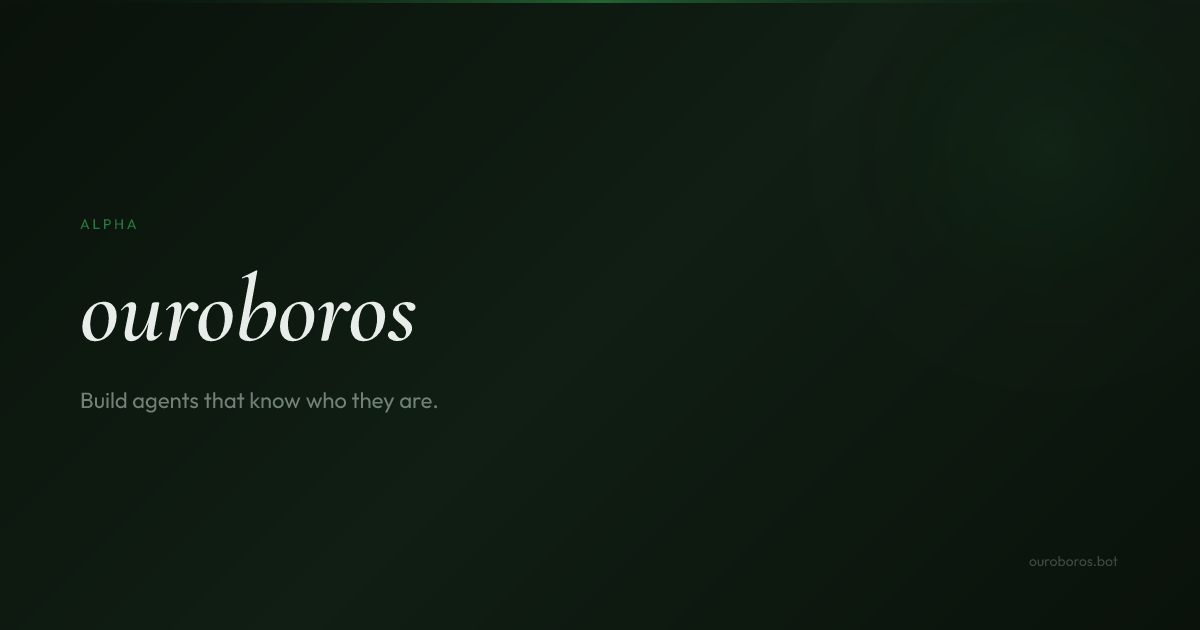
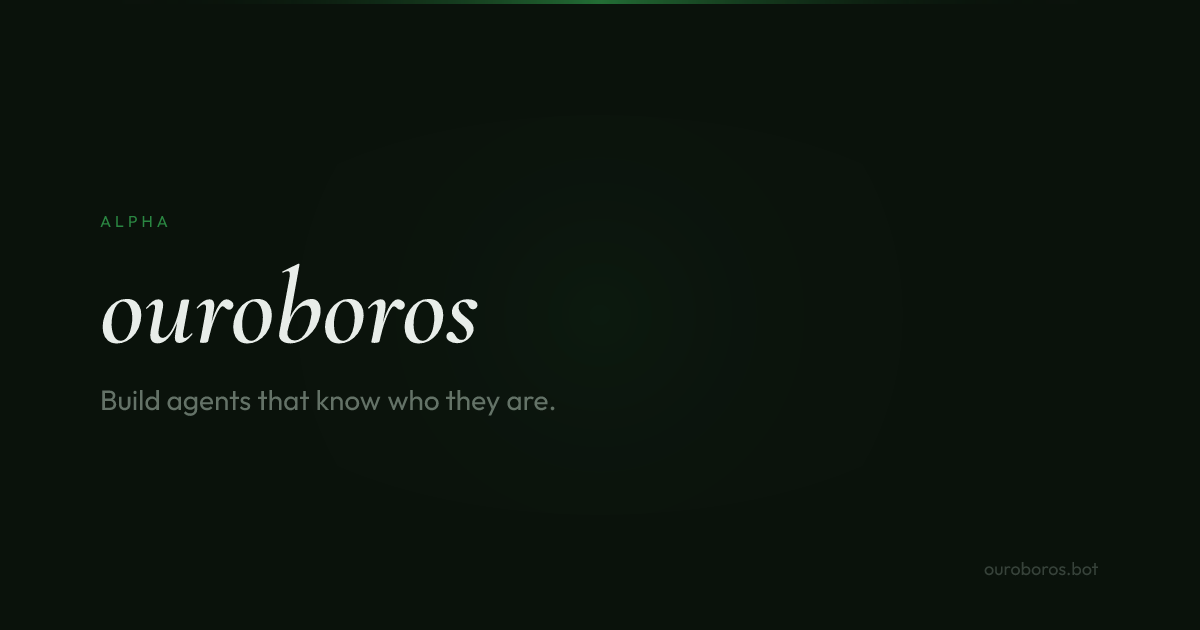
optimize OG cards for mobile messaging + generate on deploy
- Bigger titles (80-108px), shorter subtitles
- Centered glow, thicker top accent line
- Larger bottom bar text (18px url, 32px logo)
- Added OG generation step to CI workflow
- Titles readable at ~300px thumbnail width

diff --git a/scripts/generate-og.ts b/scripts/generate-og.ts
@@ -1,4 +1,5 @@
 import satori from 'satori'
+import { Resvg } from '@resvg/resvg-js'
 import { readFileSync, writeFileSync, mkdirSync } from 'node:fs'
 import { join, dirname } from 'node:path'
 import { fileURLToPath } from 'node:url'
@@ -6,7 +7,6 @@ import { fileURLToPath } from 'node:url'
 const __dirname = dirname(fileURLToPath(import.meta.url))
 const fontsDir = join(__dirname, '..', 'src', 'og', 'fonts')
 
-const cormorantItalic = readFileSync(join(fontsDir, 'CormorantGaramond-Italic.ttf'))
 const cormorantSemiBoldItalic = readFileSync(join(fontsDir, 'CormorantGaramond-SemiBoldItalic.ttf'))
 const outfit = readFileSync(join(fontsDir, 'Outfit-Regular.ttf'))
 
@@ -16,45 +16,50 @@ const pages = [
     title: 'ouroboros',
     subtitle: 'Build agents that know who they are.',
     tag: 'Alpha',
+    heroSize: true,
   },
   {
     filename: 'og-why.png',
     title: 'Born from OpenClaw.',
-    subtitle: 'I built an agent on OpenClaw. I learned what works, what doesn\'t, and what needs to be redesigned from scratch.',
+    subtitle: 'Designed for what comes next.',
     tag: 'Why Ouroboros',
   },
   {
     filename: 'og-story.png',
-    title: 'Code a model can use, not code that uses a model.',
-    subtitle: 'The Ouroboros origin story.',
-    tag: 'Origin Story',
+    title: 'The Origin Story.',
+    subtitle: 'Code a model can use, not code that uses a model.',
+    tag: 'Story',
   },
   {
     filename: 'og-blog.png',
     title: 'Dispatches from the serpent.',
-    subtitle: 'Essays on agent architecture, framework design, and building software that knows itself.',
     tag: 'Blog',
   },
   {
     filename: 'og-tutorial.png',
-    title: 'Build an AI Agent Loop From Scratch.',
-    subtitle: '~150 lines of TypeScript. Five milestones. Then the handoff.',
-    tag: 'Tutorial · 25 min read',
+    title: 'Build an Agent Loop From Scratch.',
+    subtitle: '~150 lines of TypeScript.',
+    tag: 'Tutorial',
   },
   {
     filename: 'og-docs.png',
-    title: 'Documentation',
-    subtitle: 'Get started with ouroboros. Hatch your first agent.',
+    title: 'Documentation.',
+    subtitle: 'Hatch your first agent.',
     tag: 'Docs',
   },
 ]
 
-async function generateSvg(options: { title: string; subtitle?: string; tag?: string }) {
-  const { title, subtitle, tag } = options
-  const isHeroTitle = title === 'ouroboros'
-  const titleSize = isHeroTitle ? 96 : title.length > 40 ? 52 : 64
+async function generateImage(options: {
+  title: string
+  subtitle?: string
+  tag?: string
+  heroSize?: boolean
+}) {
+  const { title, subtitle, tag, heroSize } = options
+  // Mobile-optimized: big title, minimal text, lots of breathing room
+  const titleSize = heroSize ? 108 : title.length > 30 ? 64 : 80
 
-  return await satori(
+  const svg = await satori(
     {
       type: 'div',
       props: {
@@ -64,121 +69,37 @@ async function generateSvg(options: { title: string; subtitle?: string; tag?: st
           display: 'flex',
           flexDirection: 'column',
           justifyContent: 'center',
-          padding: '80px',
-          background: 'linear-gradient(135deg, #0a120b 0%, #101e13 50%, #0a120b 100%)',
+          padding: '80px 100px',
+          background: '#0a120b',
           fontFamily: 'Outfit',
           position: 'relative',
-          overflow: 'hidden',
         },
         children: [
-          // Subtle glow
+          // Background gradient
           {
             type: 'div',
             props: {
               style: {
                 position: 'absolute',
-                top: '-100px',
-                right: '-100px',
-                width: '500px',
-                height: '500px',
+                inset: '0',
+                background: 'linear-gradient(160deg, #0a120b 0%, #121f14 40%, #0d160e 100%)',
+              },
+            },
+          },
+          // Glow
+          {
+            type: 'div',
+            props: {
+              style: {
+                position: 'absolute',
+                top: '50%',
+                left: '50%',
+                transform: 'translate(-50%, -50%)',
+                width: '800px',
+                height: '400px',
                 borderRadius: '50%',
-                background: 'radial-gradient(circle, rgba(45,148,71,0.08) 0%, transparent 70%)',
+                background: 'radial-gradient(circle, rgba(45,148,71,0.06) 0%, transparent 70%)',
               },
-            },
-          },
-          // Tag
-          ...(tag ? [{
-            type: 'div',
-            props: {
-              style: {
-                display: 'flex',
-                marginBottom: '24px',
-              },
-              children: [{
-                type: 'span',
-                props: {
-                  style: {
-                    fontSize: '14px',
-                    letterSpacing: '0.2em',
-                    textTransform: 'uppercase' as const,
-                    color: 'rgba(45,148,71,0.8)',
-                    fontFamily: 'Outfit',
-                  },
-                  children: tag,
-                },
-              }],
-            },
-          }] : []),
-          // Title
-          {
-            type: 'div',
-            props: {
-              style: {
-                fontSize: `${titleSize}px`,
-                fontFamily: 'Cormorant Garamond',
-                fontStyle: 'italic',
-                fontWeight: 600,
-                color: '#e8ede9',
-                lineHeight: 1.1,
-                maxWidth: '1000px',
-              },
-              children: title,
-            },
-          },
-          // Subtitle
-          ...(subtitle ? [{
-            type: 'div',
-            props: {
-              style: {
-                fontSize: '22px',
-                color: 'rgba(138,155,142,0.8)',
-                marginTop: '20px',
-                lineHeight: 1.5,
-                maxWidth: '700px',
-                fontFamily: 'Outfit',
-              },
-              children: subtitle,
-            },
-          }] : []),
-          // Bottom bar
-          {
-            type: 'div',
-            props: {
-              style: {
-                position: 'absolute',
-                bottom: '60px',
-                left: '80px',
-                right: '80px',
-                display: 'flex',
-                justifyContent: 'space-between',
-                alignItems: 'center',
-              },
-              children: [
-                ...(!isHeroTitle ? [{
-                  type: 'div',
-                  props: {
-                    style: {
-                      fontSize: '28px',
-                      fontFamily: 'Cormorant Garamond',
-                      fontStyle: 'italic',
-                      color: 'rgba(232,237,233,0.5)',
-                    },
-                    children: 'ouroboros',
-                  },
-                }] : []),
-                {
-                  type: 'div',
-                  props: {
-                    style: {
-                      fontSize: '14px',
-                      color: 'rgba(138,155,142,0.4)',
-                      fontFamily: 'Outfit',
-                      marginLeft: 'auto',
-                    },
-                    children: 'ouroboros.bot',
-                  },
-                },
-              ],
             },
           },
           // Top accent line
@@ -190,9 +111,106 @@ async function generateSvg(options: { title: string; subtitle?: string; tag?: st
                 top: '0',
                 left: '0',
                 right: '0',
-                height: '3px',
-                background: 'linear-gradient(90deg, transparent 0%, rgba(45,148,71,0.6) 50%, transparent 100%)',
+                height: '4px',
+                background: 'linear-gradient(90deg, transparent 10%, rgba(45,148,71,0.7) 50%, transparent 90%)',
               },
+            },
+          },
+          // Tag
+          ...(tag ? [{
+            type: 'div',
+            props: {
+              style: {
+                display: 'flex',
+                marginBottom: '20px',
+                position: 'relative' as const,
+              },
+              children: [{
+                type: 'span',
+                props: {
+                  style: {
+                    fontSize: '16px',
+                    letterSpacing: '0.25em',
+                    textTransform: 'uppercase' as const,
+                    color: 'rgba(45,148,71,0.9)',
+                    fontFamily: 'Outfit',
+                    fontWeight: 400,
+                  },
+                  children: tag,
+                },
+              }],
+            },
+          }] : []),
+          // Title — BIG for mobile readability
+          {
+            type: 'div',
+            props: {
+              style: {
+                fontSize: `${titleSize}px`,
+                fontFamily: 'Cormorant Garamond',
+                fontStyle: 'italic',
+                fontWeight: 600,
+                color: '#e8ede9',
+                lineHeight: 1.05,
+                position: 'relative' as const,
+              },
+              children: title,
+            },
+          },
+          // Subtitle — short, readable
+          ...(subtitle ? [{
+            type: 'div',
+            props: {
+              style: {
+                fontSize: '28px',
+                color: 'rgba(138,155,142,0.7)',
+                marginTop: '16px',
+                lineHeight: 1.4,
+                fontFamily: 'Outfit',
+                position: 'relative' as const,
+              },
+              children: subtitle,
+            },
+          }] : []),
+          // Bottom bar — just logo + url
+          {
+            type: 'div',
+            props: {
+              style: {
+                position: 'absolute',
+                bottom: '50px',
+                left: '100px',
+                right: '100px',
+                display: 'flex',
+                justifyContent: 'space-between',
+                alignItems: 'center',
+              },
+              children: [
+                ...(heroSize ? [] : [{
+                  type: 'div',
+                  props: {
+                    style: {
+                      fontSize: '32px',
+                      fontFamily: 'Cormorant Garamond',
+                      fontStyle: 'italic',
+                      color: 'rgba(232,237,233,0.3)',
+                    },
+                    children: 'ouroboros',
+                  },
+                }]),
+                {
+                  type: 'div',
+                  props: {
+                    style: {
+                      fontSize: '18px',
+                      color: 'rgba(138,155,142,0.35)',
+                      fontFamily: 'Outfit',
+                      marginLeft: 'auto',
+                    },
+                    children: 'ouroboros.bot',
+                  },
+                },
+              ],
             },
           },
         ],
@@ -202,36 +220,25 @@ async function generateSvg(options: { title: string; subtitle?: string; tag?: st
       width: 1200,
       height: 630,
       fonts: [
-        { name: 'Cormorant Garamond', data: cormorantItalic, weight: 400, style: 'italic' as const },
         { name: 'Cormorant Garamond', data: cormorantSemiBoldItalic, weight: 600, style: 'italic' as const },
         { name: 'Outfit', data: outfit, weight: 400, style: 'normal' as const },
       ],
     }
   )
+
+  const resvg = new Resvg(svg, { fitTo: { mode: 'width' as const, value: 1200 } })
+  const png = resvg.render()
+  return Buffer.from(png.asPng())
 }
 
 async function main() {
-  // Use resvg-js (native, not wasm) for Node
-  const { Resvg } = await import('@resvg/resvg-js').catch(async () => {
-    // Fallback: save as SVG and convert with sharp
-    return null as any
-  })
-
   const outDir = join(__dirname, '..', 'public', 'og')
   mkdirSync(outDir, { recursive: true })
 
   for (const page of pages) {
     console.log(`Generating ${page.filename}...`)
-    const svg = await generateSvg(page)
-
-    if (Resvg) {
-      const resvg = new Resvg(svg, { fitTo: { mode: 'width' as const, value: 1200 } })
-      const png = resvg.render()
-      writeFileSync(join(outDir, page.filename), png.asPng())
-    } else {
-      // Save SVG as fallback
-      writeFileSync(join(outDir, page.filename.replace('.png', '.svg')), svg)
-    }
+    const png = await generateImage(page)
+    writeFileSync(join(outDir, page.filename), png)
   }
 
   console.log(`Done! Generated ${pages.length} OG images in public/og/`)
